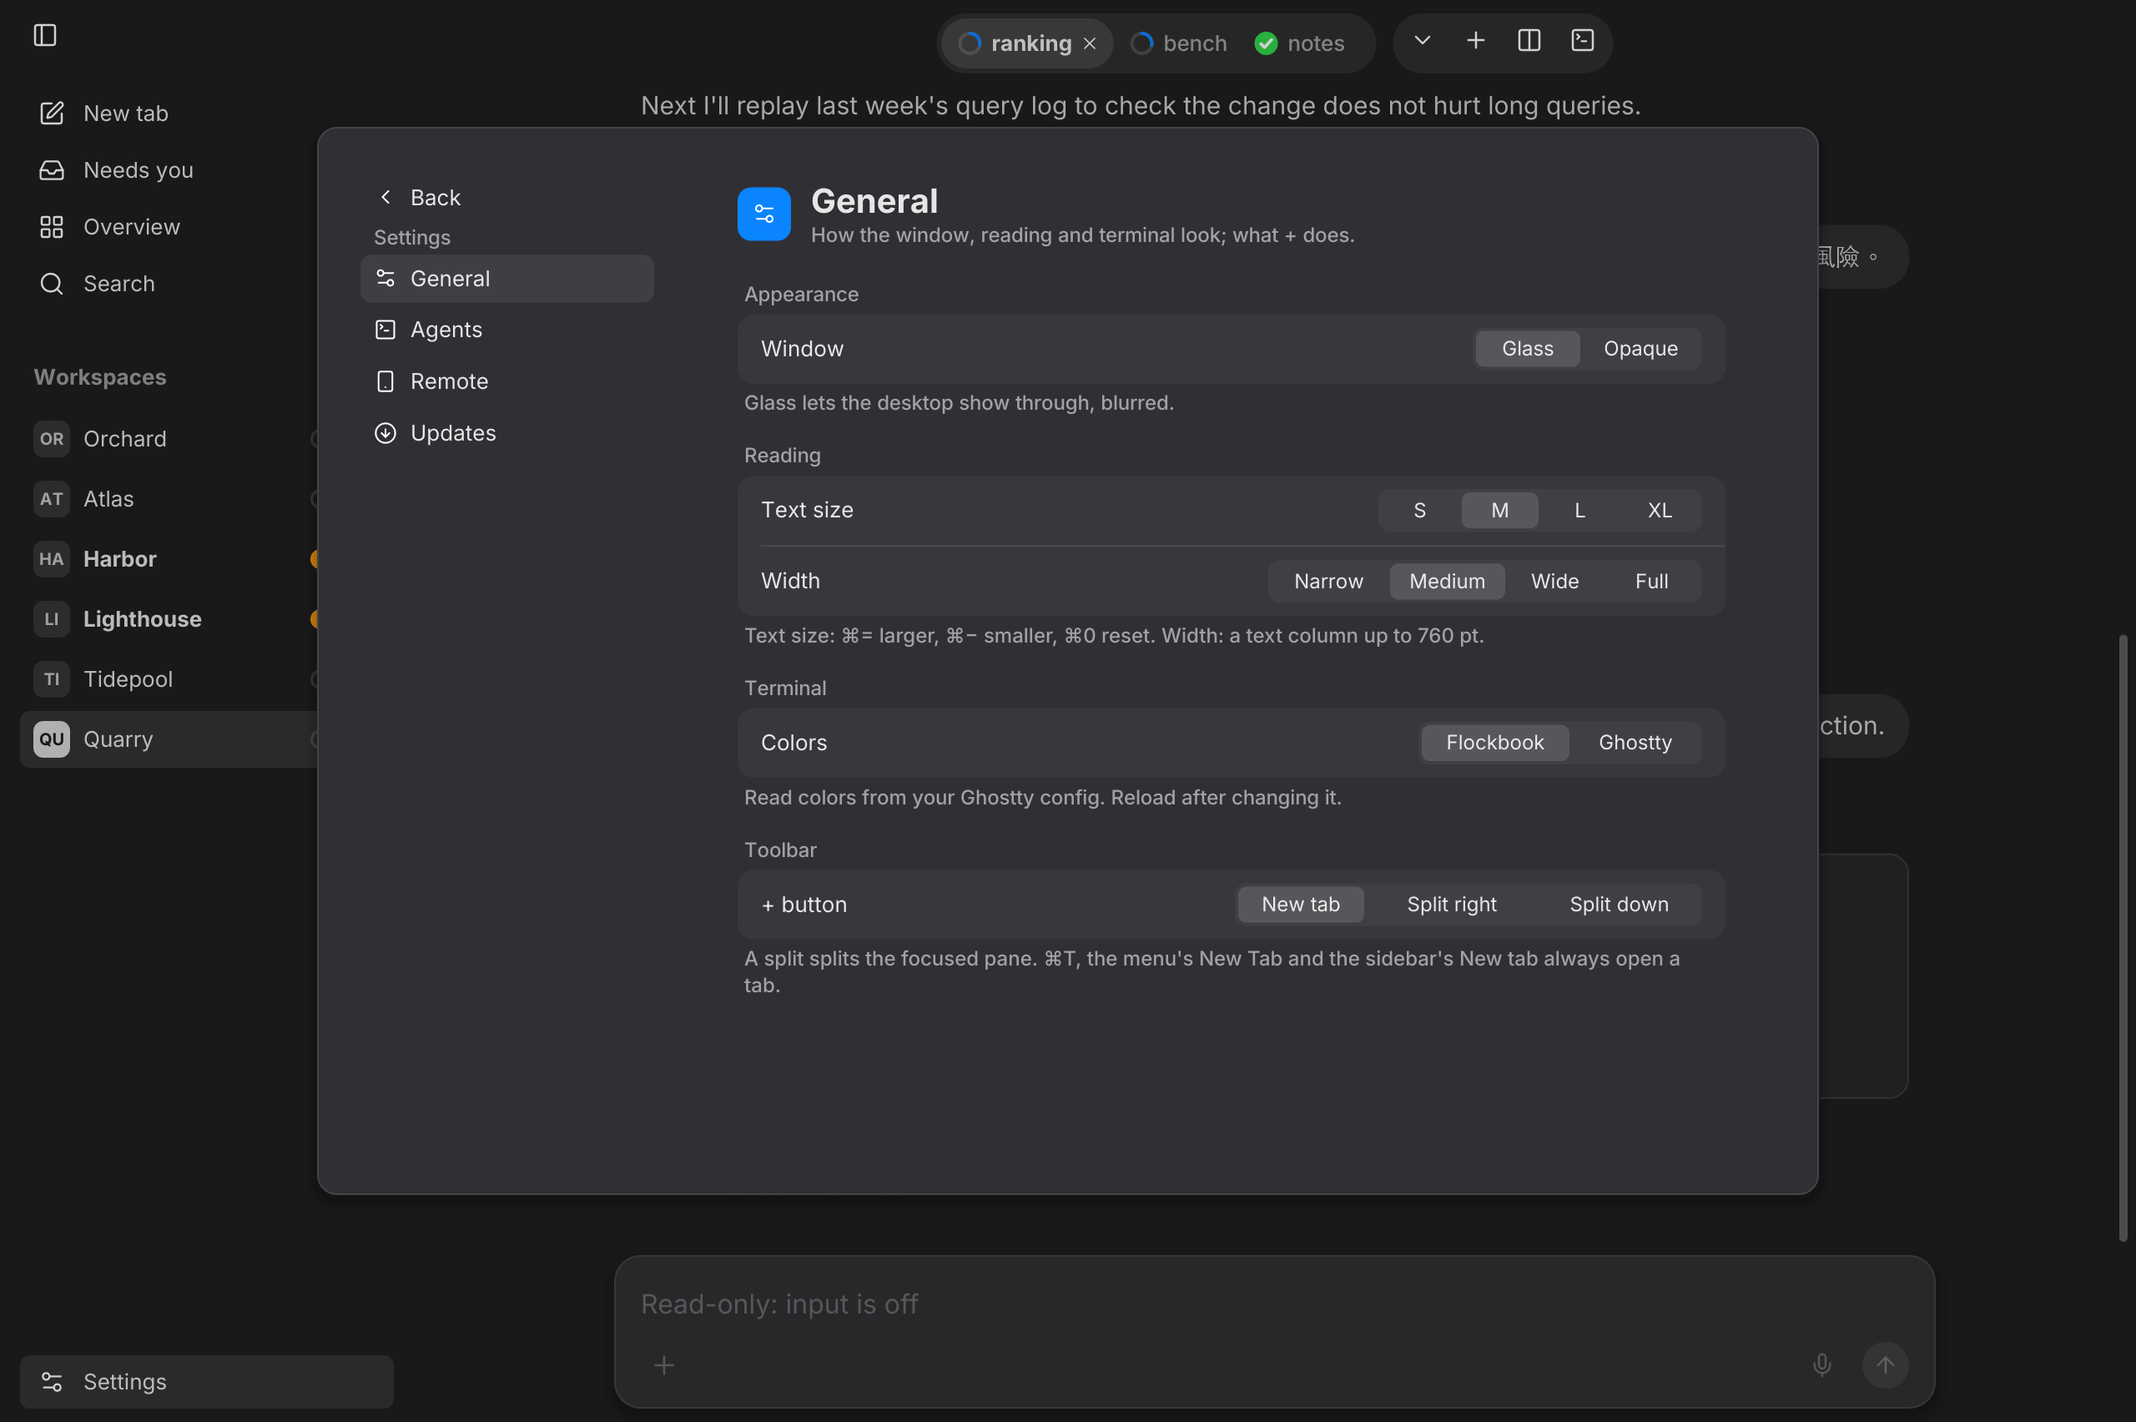
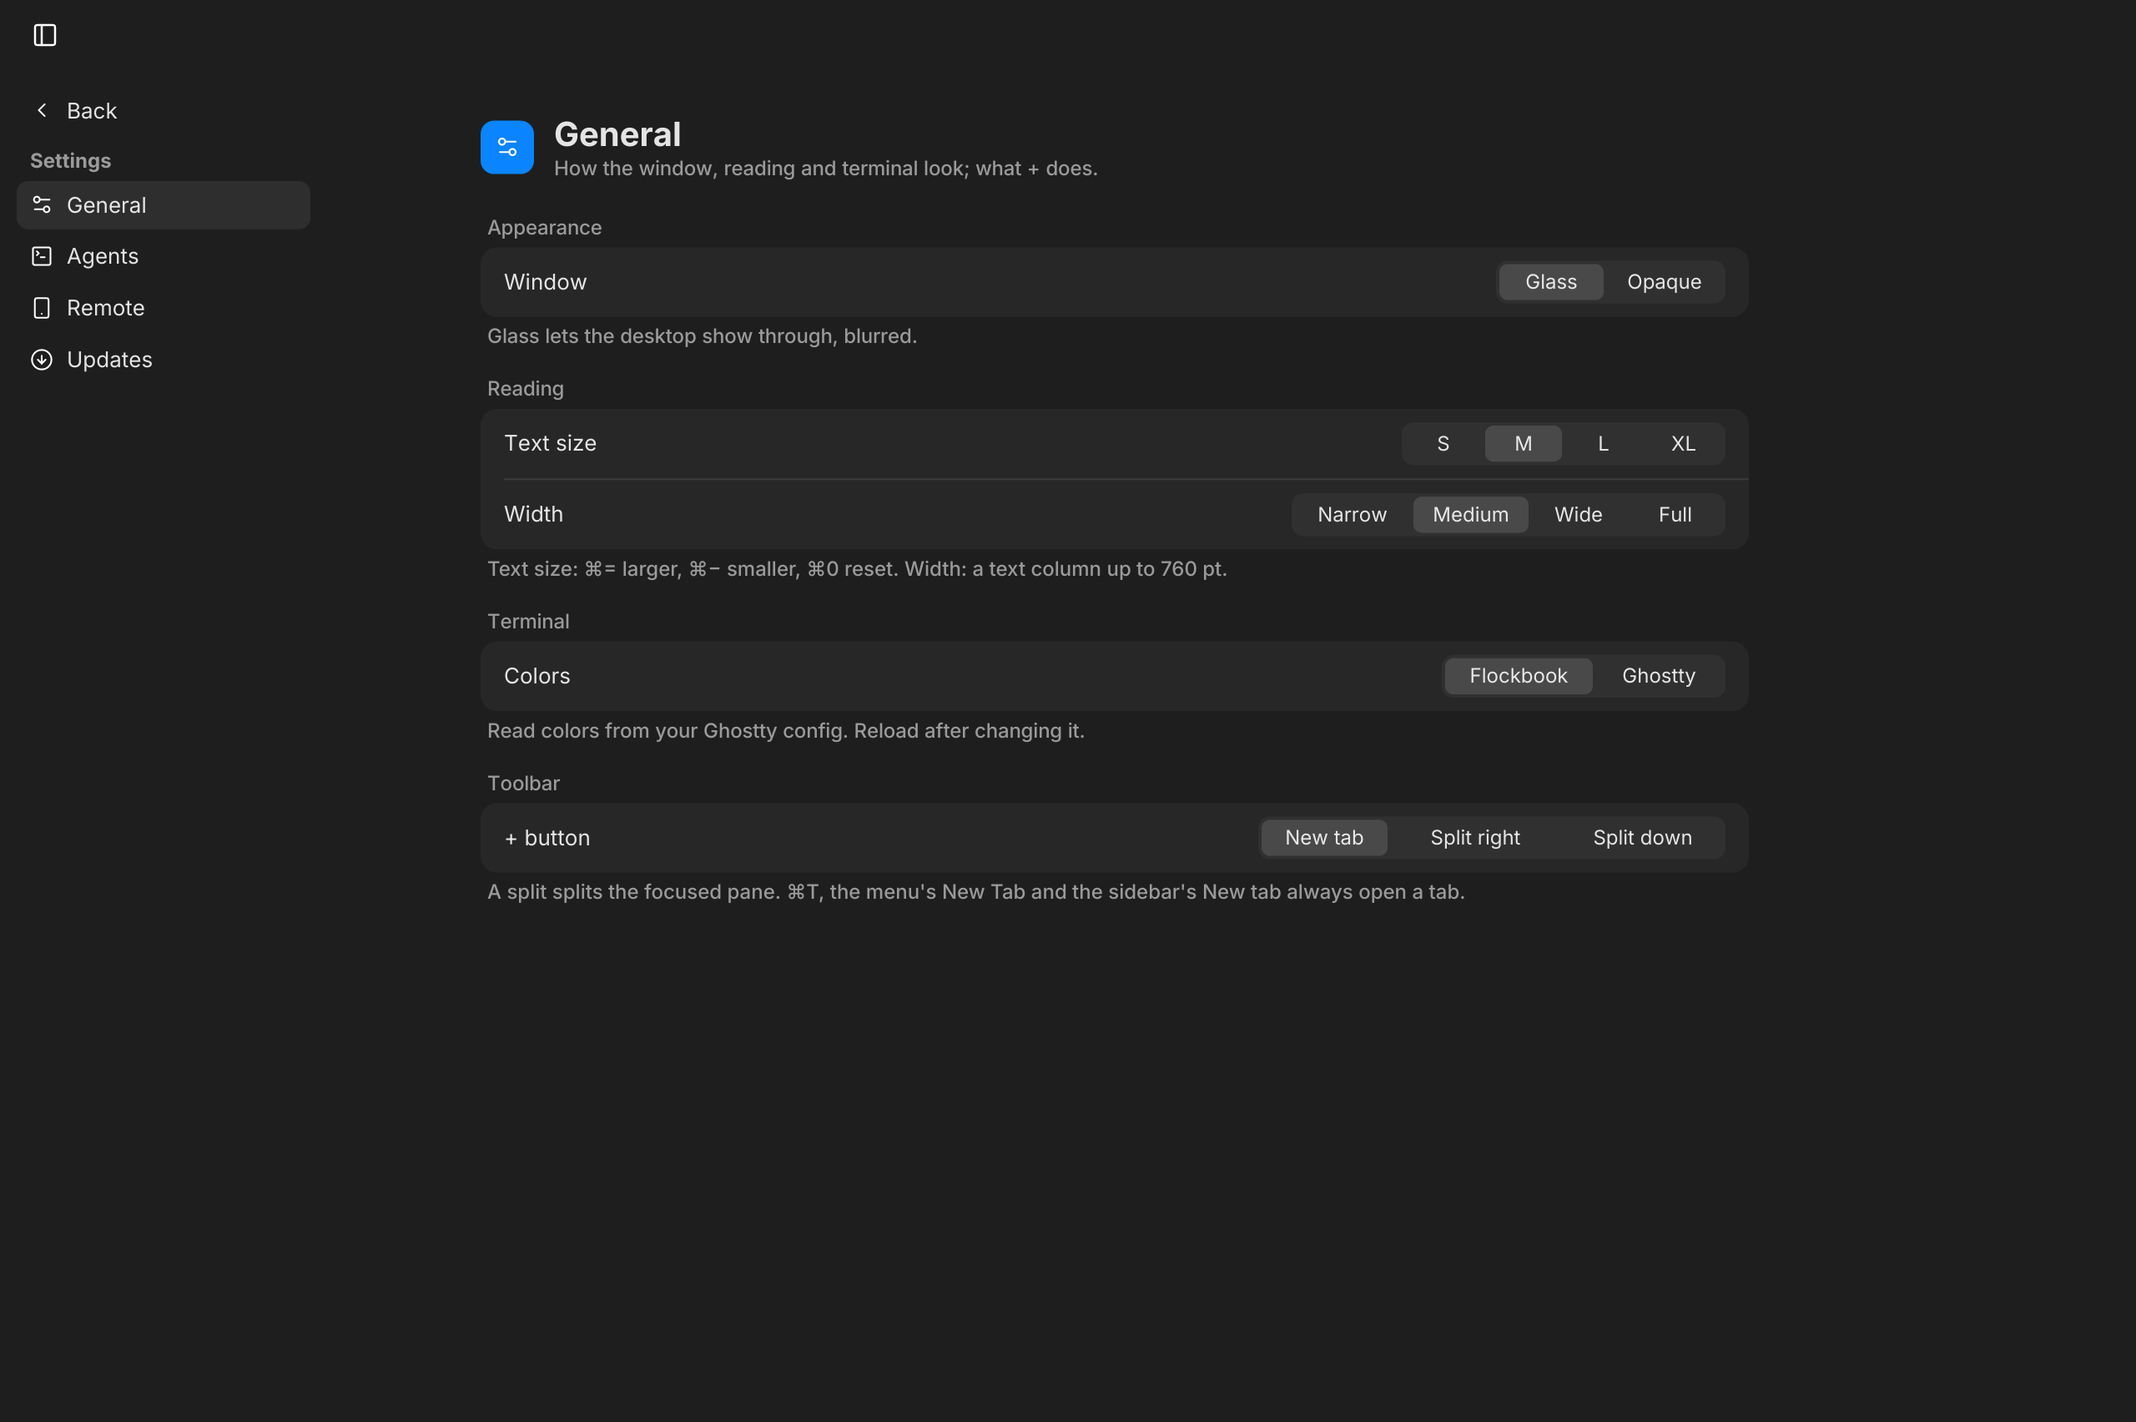
xplat: Settings is a page of the window, as on the Mac
The sidebar holds Back and the tabs, the detail column the form (left, at most
760 pt, margins 40), and the tab row is gone while it shows. The screen it was
opened from stays laid out but hidden and inert, so Back returns to it as it was.
With the sidebar hidden the page brings its own tab list.

Claude-Session: https://claude.ai/code/session_015NpaT4959uXQHQEhxDjdNt

diff --git a/xplat/flockbook/src/settings.rs b/xplat/flockbook/src/settings.rs
@@ -1,8 +1,8 @@
 //! Settings (port of Swift `SettingsView`): window glass, reading width, and "Allow sending input to agents".
 //!
-//! Swift opens a separate fixed-size window; here it is a sheet over the app (one window). It opens with Cmd+,
-//! (Ctrl+, on Windows and Linux) and from the gear at the bottom of the sidebar. Esc, the close button or a click
-//! outside closes it.
+//! Like Swift's `SettingsPage`, it is a page of the main window: the sidebar holds Back and the tabs, the detail column
+//! the form, and the tab row is gone. It opens with Cmd+, (Ctrl+, on Windows and Linux) and from the Settings row at the
+//! foot of the sidebar. Esc or Back returns to the screen it was opened from.
 //!
 //! The values live in `settings.json` in the user's config folder. Tests and snapshots keep them in memory only
 //! (`path` is `None`), so they never touch the real file.
@@ -20,7 +20,7 @@ use std::path::{Path, PathBuf};
 
 use fb_ui::icons::{icon, Icon, SIZE_INLINE};
 use fb_ui::theme::*;
-use iced::widget::{button, column, container, mouse_area, responsive, row, scrollable, stack, svg, text, toggler, Space};
+use iced::widget::{button, column, container, row, scrollable, svg, text, toggler, Space};
 use iced::{Alignment, Background, Border, Element, Length, Task};
 use serde::{Deserialize, Serialize};
 
@@ -30,7 +30,7 @@ pub mod ghostty_theme;
 pub mod status_tags;
 #[path = "settings_cover.rs"]
 mod settings_cover;
-pub use settings_cover::cover;
+pub use settings_cover::{cover, hide};
 
 use crate::access;
 use crate::glass::{Backdrop, Os};
@@ -346,13 +346,11 @@ pub fn toggle_style(t: Tokens, status: toggler::Status) -> toggler::Style {
     }
 }
 
-pub const SHEET_W: f32 = 900.0;
-/// The tab list beside the page, and the page's left margin (Swift `SettingsSplit.listWidth`, `SettingsView.margin`).
+/// The tab list beside the page, the page's margins and the widest its rows get (Swift `SettingsSplit.listWidth`,
+/// `SettingsView.margin`, `SettingsView.column`).
 const LIST_W: f32 = 196.0;
 const PAGE_MARGIN: f32 = 40.0;
-/// The tallest the sheet gets, so it never runs to the bottom of the window. Swift's settings page asks for
-/// `minHeight: 360, idealHeight: 640` (`Settings.swift`), and the page scrolls inside whenever the content is taller.
-pub const SHEET_MAX_H: f32 = 640.0;
+const PAGE_COLUMN: f32 = 760.0;
 
 /// A small secondary button (Swift's `.controlSize(.small)`): quiet fill, a hairline border, never the accent.
 fn small_button<'a>(t: Tokens, label: &'a str, on: Option<Message>) -> Element<'a, Message> {
@@ -455,12 +453,24 @@ fn section<'a>(t: Tokens, title: &'a str, note: Option<String>, rows: Vec<Elemen
     group.into()
 }
 
-/// The sheet, or nothing when closed.
-pub fn layer(app: &App) -> Element<'_, Message> {
+/// The page in the detail column, or nothing when closed. With the window sidebar hidden the page brings the tab list
+/// itself, a hairline to its right (Swift `SettingsPage`: `list: own`).
+pub fn page(app: &App) -> Element<'_, Message> {
     if !app.state.settings.open {
         return Space::new().into();
     }
-    responsive(move |size| sheet(app, size.height)).into()
+    let t = app.tokens();
+    let form = container(scrollable(container(form(app)).width(Length::Fill)).height(Length::Fill)).width(Length::Fill).height(Length::Fill);
+    if !app.state.settings.sidebar_hidden() {
+        return form.into();
+    }
+    let rule = container(Space::new()).width(Length::Fixed(1.0)).height(Length::Fill).style(style::fill(t.sep, 0.0));
+    row![tab_list(t, app.state.settings.tab, 12.0), rule, form].height(Length::Fill).into()
+}
+
+/// The window sidebar while Settings shows (Swift `SettingsSidebar`): Back on top, then the tabs, below the title bar band.
+pub fn sidebar_list(app: &App, top: f32) -> Element<'_, Message> {
+    tab_list(app.tokens(), app.state.settings.tab, top)
 }
 
 /// The tab's one-line summary (Swift `SettingsTab.summary`).
@@ -492,13 +502,21 @@ fn page_header(t: Tokens, tab: SettingsTab) -> Element<'static, Message> {
 }
 
 /// The tabs down the left, like System Settings (Swift `SettingsTabList`): Back, a small "Settings" heading, then the
-/// rows on a light grey fill when chosen.
-fn tab_list(t: Tokens, selected: SettingsTab) -> Element<'static, Message> {
+/// rows on a light grey fill when chosen. Back returns to the screen Settings was opened from.
+fn tab_list(t: Tokens, selected: SettingsTab, top: f32) -> Element<'static, Message> {
+    let back = button(container(row![local_icon(CHEVRON_LEFT, SIZE_INLINE, t.label_2), BODY.text("Back").color(t.label)].spacing(SP_8).align_y(Alignment::Center)).padding([6, 8]).width(Length::Fill))
+        .padding(0)
+        .width(Length::Fill)
+        .on_press(Message::Settings(SettingsMsg::Close))
+        .style(move |_, st| button::Style {
+            background: matches!(st, button::Status::Hovered).then_some(Background::Color(t.fill_1)),
+            border: Border { radius: 7.0.into(), ..Default::default() },
+            ..Default::default()
+        });
+    // Swift: Back `.padding(.bottom, 6)`, the heading `.subheadline.weight(.semibold)` `.padding(.bottom, 2)`.
     let mut col = column![
-        container(row![local_icon(CHEVRON_LEFT, SIZE_INLINE, t.label_2), BODY.text("Back").color(t.label)].spacing(SP_8).align_y(Alignment::Center))
-            .padding([6, 8])
-            .width(Length::Fill),
-        container(CALLOUT.text("Settings").color(t.label_2)).padding([0, 8]),
+        container(back).padding(iced::Padding { bottom: 6.0, ..iced::Padding::ZERO }),
+        container(CALLOUT.text("Settings").font(fb_ui::fonts::inter(iced::font::Weight::Semibold)).color(t.label_2)).padding(iced::Padding { top: 0.0, right: 8.0, bottom: 2.0, left: 8.0 }),
     ]
     .spacing(2);
     for tab in SettingsTab::ALL {
@@ -520,10 +538,11 @@ fn tab_list(t: Tokens, selected: SettingsTab) -> Element<'static, Message> {
         );
     }
     // Swift `SettingsTabList`: `.padding(.horizontal, 10).padding(.top, 12)`.
-    container(col).width(Length::Fixed(LIST_W)).height(Length::Fill).padding(iced::Padding { top: 12.0, right: 10.0, bottom: 10.0, left: 10.0 }).into()
+    container(col).width(Length::Fixed(LIST_W)).height(Length::Fill).padding(iced::Padding { top, right: 10.0, bottom: 10.0, left: 10.0 }).into()
 }
 
-fn sheet(app: &App, available_height: f32) -> Element<'_, Message> {
+/// The form: header and groups, at most `PAGE_COLUMN` wide and kept to the left (Swift `SettingsView.page`).
+fn form(app: &App) -> Element<'_, Message> {
     let t = app.tokens();
     let s = &app.state.settings;
 
@@ -598,27 +617,8 @@ fn sheet(app: &App, available_height: f32) -> Element<'_, Message> {
         body = body.push(container(CAPTION.text(line).color(t.label_2)).padding([0, 12]));
     }
 
-    let close = button(container(icon(Icon::X, SIZE_INLINE, t.label_2)).center(Length::Fixed(28.0))).padding(0).on_press(Message::Settings(SettingsMsg::Close)).style(move |_, st| button::Style {
-        background: matches!(st, button::Status::Hovered).then_some(Background::Color(t.fill_2)),
-        border: Border { radius: 14.0.into(), ..Default::default() },
-        ..Default::default()
-    });
-    let header = row![HEADLINE.text("Settings").color(t.label), Space::new().width(Length::Fill), close].align_y(Alignment::Center);
-    let card = container(
-        row![
-            tab_list(t, s.tab),
-            container(container(scrollable(body).height(Length::Fill)).padding([16.0, PAGE_MARGIN])).width(Length::Fill).height(Length::Fill),
-        ]
-        .height(Length::Fill),
-    )
-        .padding(SP_16).width(Length::Fill).max_width(SHEET_W)
-        .height(Length::Fixed((available_height - TOPROW_H - 24.0).clamp(1.0, SHEET_MAX_H)))
-        .style(style::float_e2(t, R_CARD));
-    // The card swallows its own clicks; the scrim around it closes the sheet.
-    let card = mouse_area(card).on_press(Message::Noop);
-    let scrim = mouse_area(container(Space::new()).width(Length::Fill).height(Length::Fill).style(style::fill(iced::Color { a: 0.18, ..iced::Color::BLACK }, 0.0))).on_press(Message::Settings(SettingsMsg::Close));
-    let placed = container(card).width(Length::Fill).height(Length::Fill).align_x(Alignment::Center).padding(iced::Padding { top: TOPROW_H + 24.0, ..iced::Padding::ZERO });
-    stack![scrim, placed].into()
+    // Swift: `.frame(maxWidth: column)`, leading and trailing margin 40, top 16, bottom 24.
+    container(body).max_width(PAGE_COLUMN + 2.0 * PAGE_MARGIN).padding(iced::Padding { top: 16.0, right: PAGE_MARGIN, bottom: 24.0, left: PAGE_MARGIN }).into()
 }
 
 #[cfg(test)]

diff --git a/xplat/flockbook/src/lib.rs b/xplat/flockbook/src/lib.rs
@@ -60,7 +60,7 @@ pub mod toprow;
 pub mod workspace_actions;
 pub mod pane_layout;
 
-use fb_ui::theme::{Tokens, SIDEBAR_W};
+use fb_ui::theme::Tokens;
 use fb_ui::Mode;
 use iced::widget::{column, container, row, Space};
 use iced::{Element, Length, Task, Theme};
@@ -269,18 +269,24 @@ impl App {
             Screen::NeedsYou => needs_you::view(self),
             Screen::Search => overview::view(self),
         };
+        // Settings is a page of the window (Swift `SettingsPage`): it takes the detail column and leaves the screen it was
+        // opened from in place, hidden and inert, for Back. No tab row while it shows: it is not about a workspace.
+        let on_settings = self.state.settings.open;
+        let main = iced::widget::stack![settings::hide(main, on_settings), settings::page(self)];
+        let bar: Element<Message> = if on_settings { Space::new().width(Length::Fill).into() } else { toprow::view(self) };
         let sidebar = chrome::sidebar(self);
+        let covered = self.state.shortcuts.open;
         if self.state.glass.on {
             // Window glass: each surface paints one tint over a clear root, so translucent layers never stack.
             let main = container(main).width(Length::Fill).height(Length::Fill);
-            let main = if needs_you::paints_own_ground(self) { main } else { main.style(style::fill(ground, 0.0)) };
-            let right = column![container(toprow::view(self)).width(Length::Fill).height(Length::Fixed(fb_ui::theme::TOPROW_H)).style(style::fill(t.glass_bar, 0.0)), main];
+            let main = if needs_you::paints_own_ground(self) && !on_settings { main } else { main.style(style::fill(ground, 0.0)) };
+            let right = column![container(bar).width(Length::Fill).height(Length::Fixed(fb_ui::theme::TOPROW_H)).style(style::fill(t.glass_bar, 0.0)), main];
             let body = row![sidebar, container(right).width(Length::Fill).height(Length::Fill)];
-            return container(iced::widget::stack![settings::cover(iced::widget::stack![body, toprow::menu_layer(self), workspace_actions::layer(self), terminal::layer(self)], self.state.settings.open || self.state.shortcuts.open), settings::layer(self), shortcuts::layer(self)]).width(Length::Fill).height(Length::Fill).into();
+            return container(iced::widget::stack![settings::cover(iced::widget::stack![body, settings::hide(toprow::menu_layer(self), on_settings), settings::hide(workspace_actions::layer(self), on_settings), settings::hide(terminal::layer(self), on_settings)], covered), shortcuts::layer(self)]).width(Length::Fill).height(Length::Fill).into();
         }
-        let right = column![container(toprow::view(self)).height(Length::Fixed(fb_ui::theme::TOPROW_H)), container(main).width(Length::Fill).height(Length::Fill)];
+        let right = column![container(bar).height(Length::Fixed(fb_ui::theme::TOPROW_H)), container(main).width(Length::Fill).height(Length::Fill)];
         let body = row![sidebar, container(right).width(Length::Fill).height(Length::Fill).style(style::content(t))];
-        container(iced::widget::stack![settings::cover(iced::widget::stack![body, toprow::menu_layer(self), workspace_actions::layer(self), terminal::layer(self)], self.state.settings.open || self.state.shortcuts.open), settings::layer(self), shortcuts::layer(self)]).width(Length::Fill).height(Length::Fill).style(style::content(t)).into()
+        container(iced::widget::stack![settings::cover(iced::widget::stack![body, settings::hide(toprow::menu_layer(self), on_settings), settings::hide(workspace_actions::layer(self), on_settings), settings::hide(terminal::layer(self), on_settings)], covered), shortcuts::layer(self)]).width(Length::Fill).height(Length::Fill).style(style::content(t)).into()
     }
 }
 

diff --git a/xplat/flockbook/src/settings_cover.rs b/xplat/flockbook/src/settings_cover.rs
@@ -1,13 +1,18 @@
-//! Keeps the reader's widget state/focus while a settings sheet covers it, without delivering input underneath.
+//! Keeps the reader's widget state/focus while Settings covers it, without delivering input underneath.
 use iced::advanced::layout::{self, Layout};
 use iced::advanced::widget::{Operation, Tree};
 use iced::advanced::{mouse, overlay, renderer, Clipboard, Shell, Widget};
 use iced::{Element, Event, Length, Rectangle, Size, Vector};
 
 pub fn cover<'a, M: 'a>(content: impl Into<Element<'a, M>>, covered: bool) -> Element<'a, M> {
-    Element::new(Cover { content: content.into(), covered })
+    Element::new(Cover { content: content.into(), covered, hidden: false })
 }
-struct Cover<'a, M> { content: Element<'a, M>, covered: bool }
+/// Covered and not drawn: the screen the Settings page replaces stays laid out (scroll, focus) for Back, like Swift's
+/// `.opacity(0)` on the screen under `SettingsPage` (`HerdrDeskApp.swift`).
+pub fn hide<'a, M: 'a>(content: impl Into<Element<'a, M>>, hidden: bool) -> Element<'a, M> {
+    Element::new(Cover { content: content.into(), covered: hidden, hidden })
+}
+struct Cover<'a, M> { content: Element<'a, M>, covered: bool, hidden: bool }
 impl<M> Widget<M, iced::Theme, iced::Renderer> for Cover<'_, M> {
     fn size(&self) -> Size<Length> { self.content.as_widget().size() }
     fn size_hint(&self) -> Size<Length> { self.content.as_widget().size_hint() }
@@ -17,6 +22,7 @@ impl<M> Widget<M, iced::Theme, iced::Renderer> for Cover<'_, M> {
         self.content.as_widget_mut().layout(&mut tree.children[0], renderer, limits)
     }
     fn draw(&self, tree: &Tree, renderer: &mut iced::Renderer, theme: &iced::Theme, style: &renderer::Style, layout: Layout<'_>, cursor: mouse::Cursor, viewport: &Rectangle) {
+        if self.hidden { return; }
         self.content.as_widget().draw(&tree.children[0], renderer, theme, style, layout, if self.covered { mouse::Cursor::Unavailable } else { cursor }, viewport);
     }
     fn operate(&mut self, tree: &mut Tree, layout: Layout<'_>, renderer: &iced::Renderer, operation: &mut dyn Operation) {

diff --git a/xplat/flockbook/src/chrome.rs b/xplat/flockbook/src/chrome.rs
@@ -139,7 +139,9 @@ pub fn sidebar(app: &App) -> Element<'_, Message> {
         // The sidebar's own empty top band is the window's title bar on macOS (`sidebar::view` keeps it 52 pt tall and
         // empty). The toggle rides on that band instead of pushing it down, so the empty part stays a drag area.
         let band = container(row![container(toggle).padding([6, 12]), Space::new().width(Length::Fill)]).height(Length::Fixed(SIDEBAR_TOP_H));
-        stack![crate::sidebar::view(app), container(band).width(Length::Fill).align_y(Alignment::Start)].into()
+        // While Settings shows, the sidebar holds Back and the tabs instead (Swift `SidebarView`: `SettingsSidebar`).
+        let list = if app.state.settings.open { crate::settings::sidebar_list(app, SIDEBAR_TOP_H) } else { crate::sidebar::view(app) };
+        stack![list, container(band).width(Length::Fill).align_y(Alignment::Start)].into()
     };
     container(content).width(Length::Fixed(if hidden { 48.0 } else { SIDEBAR_W })).height(Length::Fill)
         .style(crate::style::sidebar(t, app.state.glass.on)).into()
